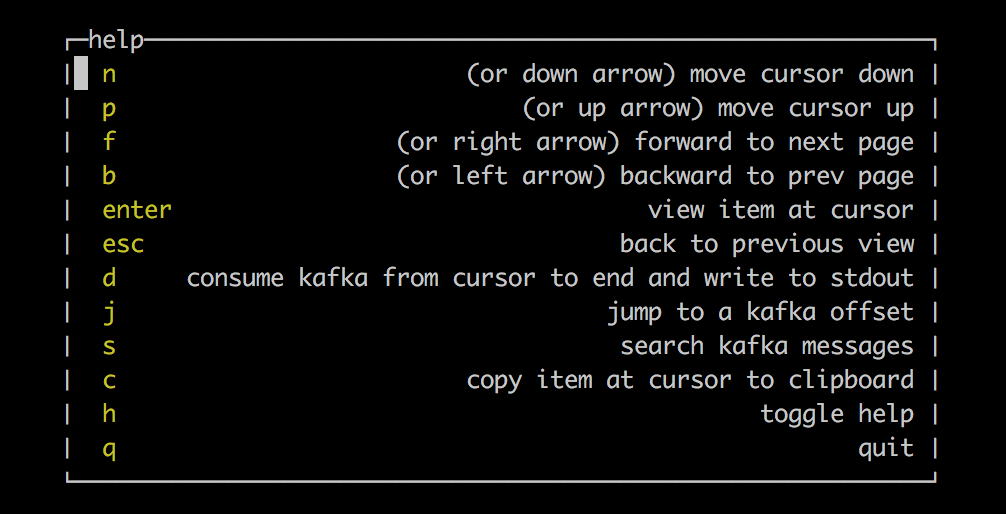
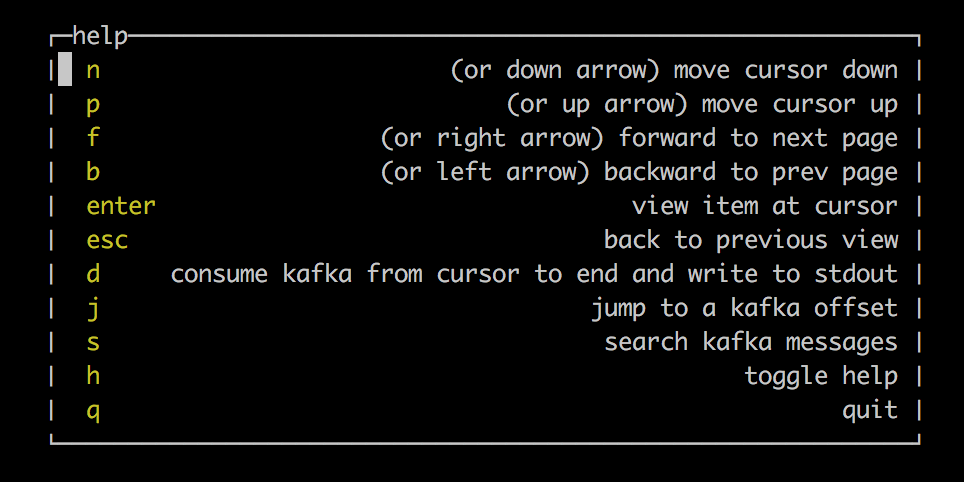
removed item from help menu

diff --git a/internal/views/help.go b/internal/views/help.go
@@ -19,7 +19,6 @@ var (
   %-15s %62s
   %-15s %62s
   %-15s %62s
-  %-15s %62s
   %-15s %62s`
 )
 
@@ -37,7 +36,7 @@ func newHelp(w, h int) *help {
 func getHelpCoords(g *ui.Gui) coords {
 	maxX, maxY := g.Size()
 	width := 62
-	height := 13
+	height := 12
 	x1 := maxX/2 - width/2
 	x2 := maxX/2 + width/2
 	y1 := maxY/2 - height/2
@@ -100,8 +99,6 @@ func getHelpMsg() []byte {
 		c1("jump to a kafka offset"),
 		c3("s"),
 		c1("search kafka messages"),
-		c3("c"),
-		c1("copy item at cursor to clipboard"),
 		c3("h"),
 		c1("toggle help"),
 		c3("q"),
